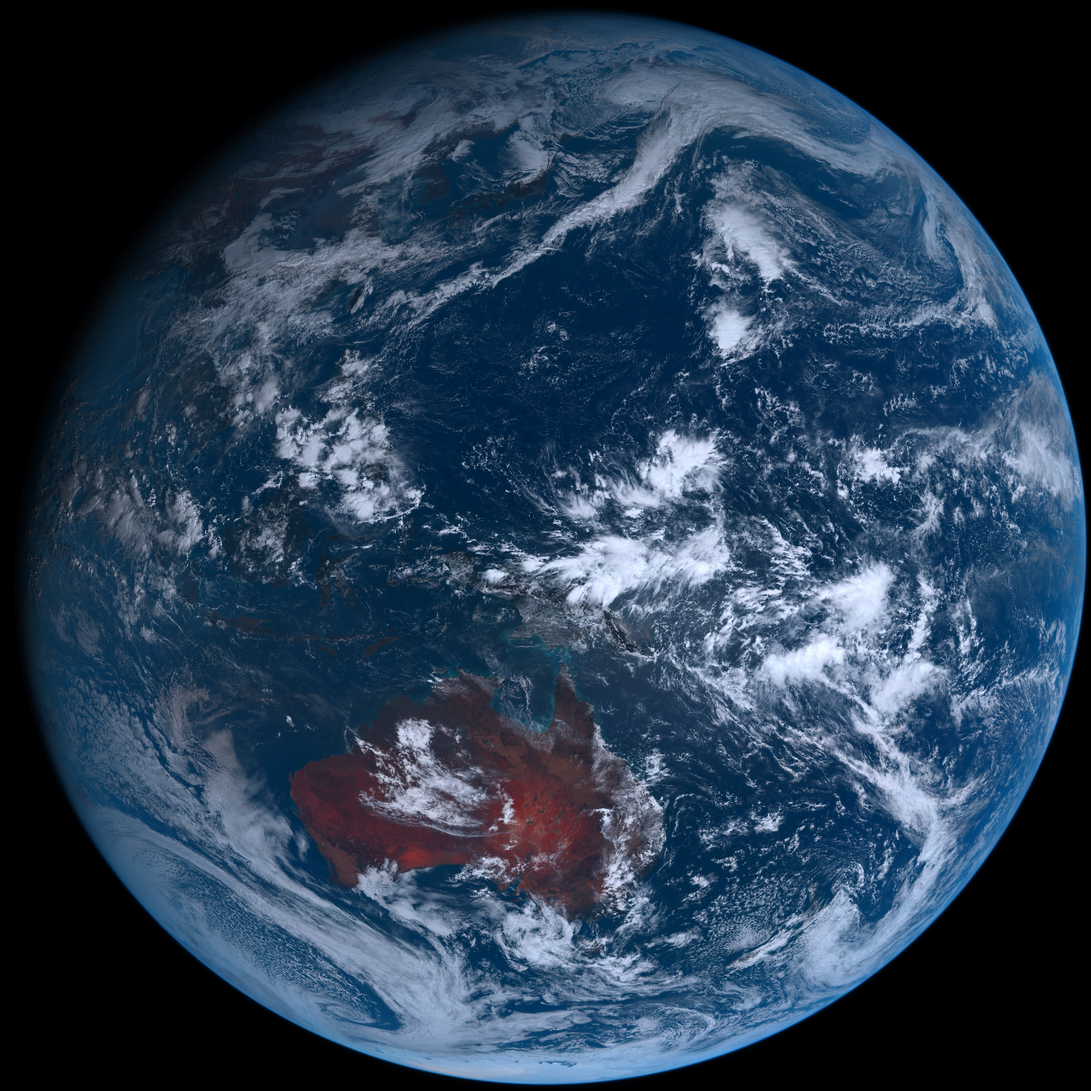
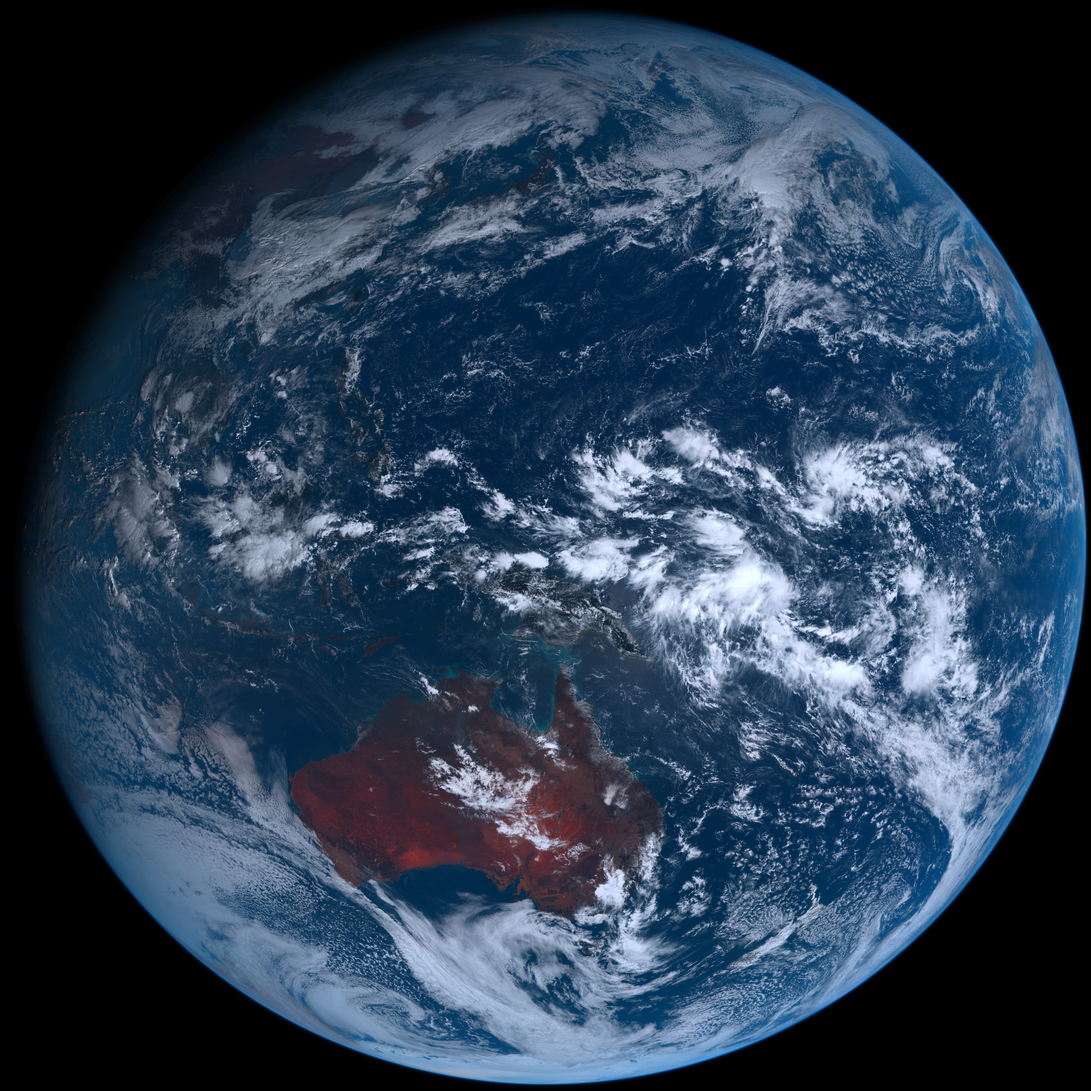
Thursday 11/09/2023 03:08 +00

diff --git a/README.md b/README.md
@@ -1,12 +1,12 @@
 # ps1
 
 - ### [BingWallpaper](https://github.com/milankomaj/ps1/wiki/BingWallpaper)  [![Generate Wallpapers Github README.md](https://github.com/milankomaj/ps1/actions/workflows/GenWall.yml/badge.svg?event=schedule)](https://github.com/milankomaj/ps1/actions/workflows/GenWall.yml)
-- ##### Wednesday 08/11/2023 03:07:52 +00
+- ##### Thursday 09/11/2023 03:07:46 +00
 <img src="BingWallpaper/latest.jpg" width="700" height="auto" title="👉  BingWallpaper  👈">
-Llyn Padarn, Llanberis, Snowdonia, Wales (© Joe Daniel Price/Moment/Getty Images)
+Birch trees in autumn, Drammen, Norway (© Baac3nes/Getty Images)
 
 - ### [Himawari](https://github.com/milankomaj/ps1/wiki/Himawari) [![Generate Wallpapers Github README.md](https://github.com/milankomaj/ps1/actions/workflows/GenWall.yml/badge.svg?event=schedule)](https://github.com/milankomaj/ps1/actions/workflows/GenWall.yml) [![Video](https://github.com/milankomaj/ps1/actions/workflows/video.yml/badge.svg?event=schedule)](https://github.com/milankomaj/ps1/actions/workflows/video.yml)
-- ##### Wednesday 08/11/2023 03:08:27 +00
+- ##### Thursday 09/11/2023 03:08:22 +00
 <img src="Himawari/latest.jpg" width="auto" height="371" title="👉  Himawari  👈"> <img src="Himawari/pifd/himawari_pifd.webp" width="auto" height="371"/>
 
 
